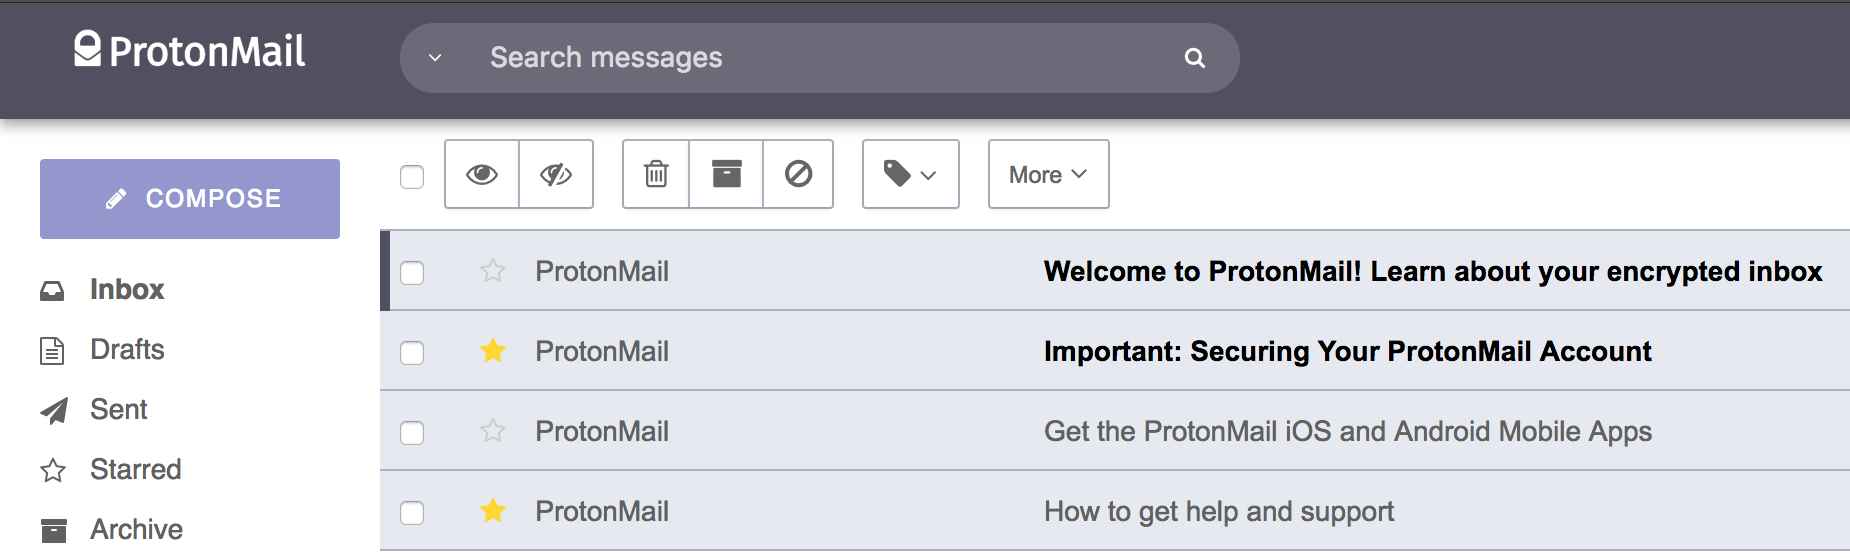
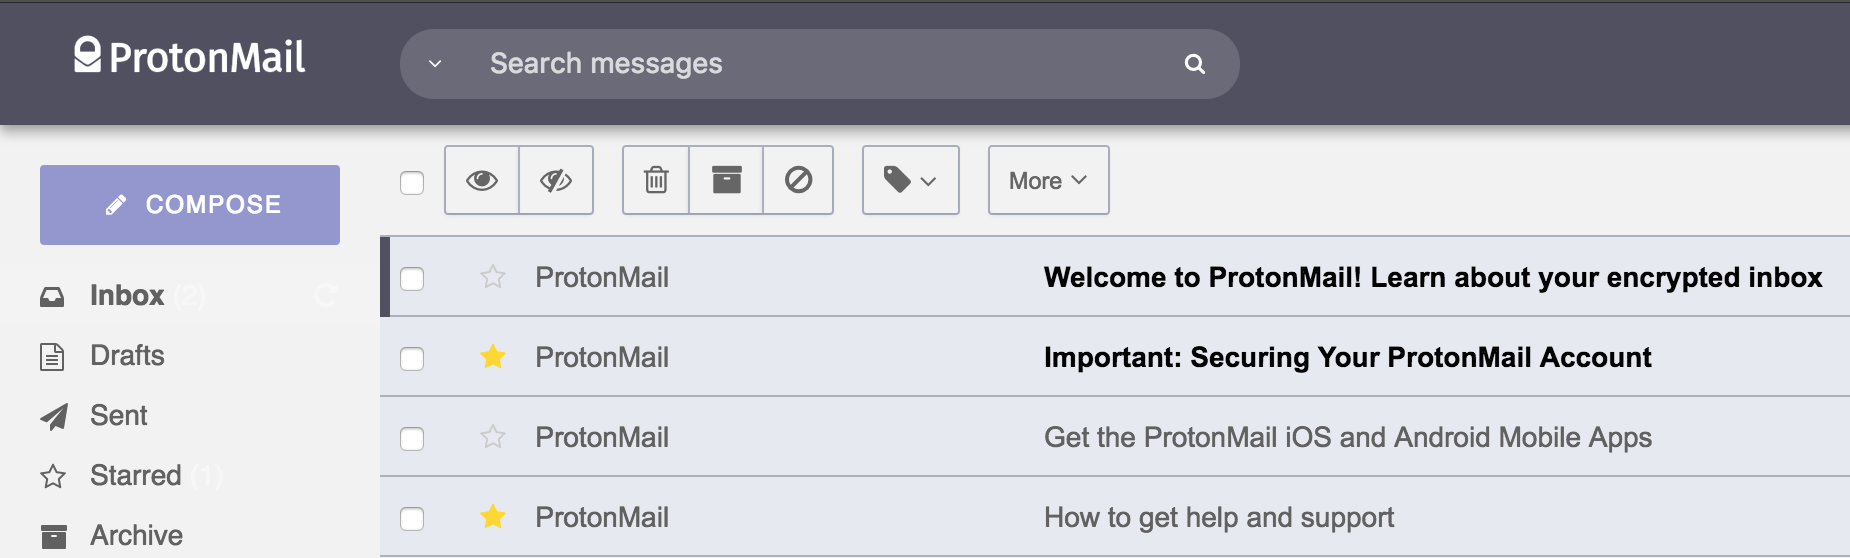
updated proton color style

diff --git a/dist/pm-inbox-proton-theme.css b/dist/pm-inbox-proton-theme.css
@@ -4,7 +4,7 @@
     --primary-color: #505061;
 
     /* Main background color */
-    --background-color: #ffffff;
+    --background-color: #f2f2f2;
 
     /* Conversation background color */
     --conversation-background-color: #e6eaf0;

diff --git a/src/themes/proton.css b/src/themes/proton.css
@@ -4,7 +4,7 @@
     --primary-color: #505061;
 
     /* Main background color */
-    --background-color: #ffffff;
+    --background-color: #f2f2f2;
 
     /* Conversation background color */
     --conversation-background-color: #e6eaf0;
